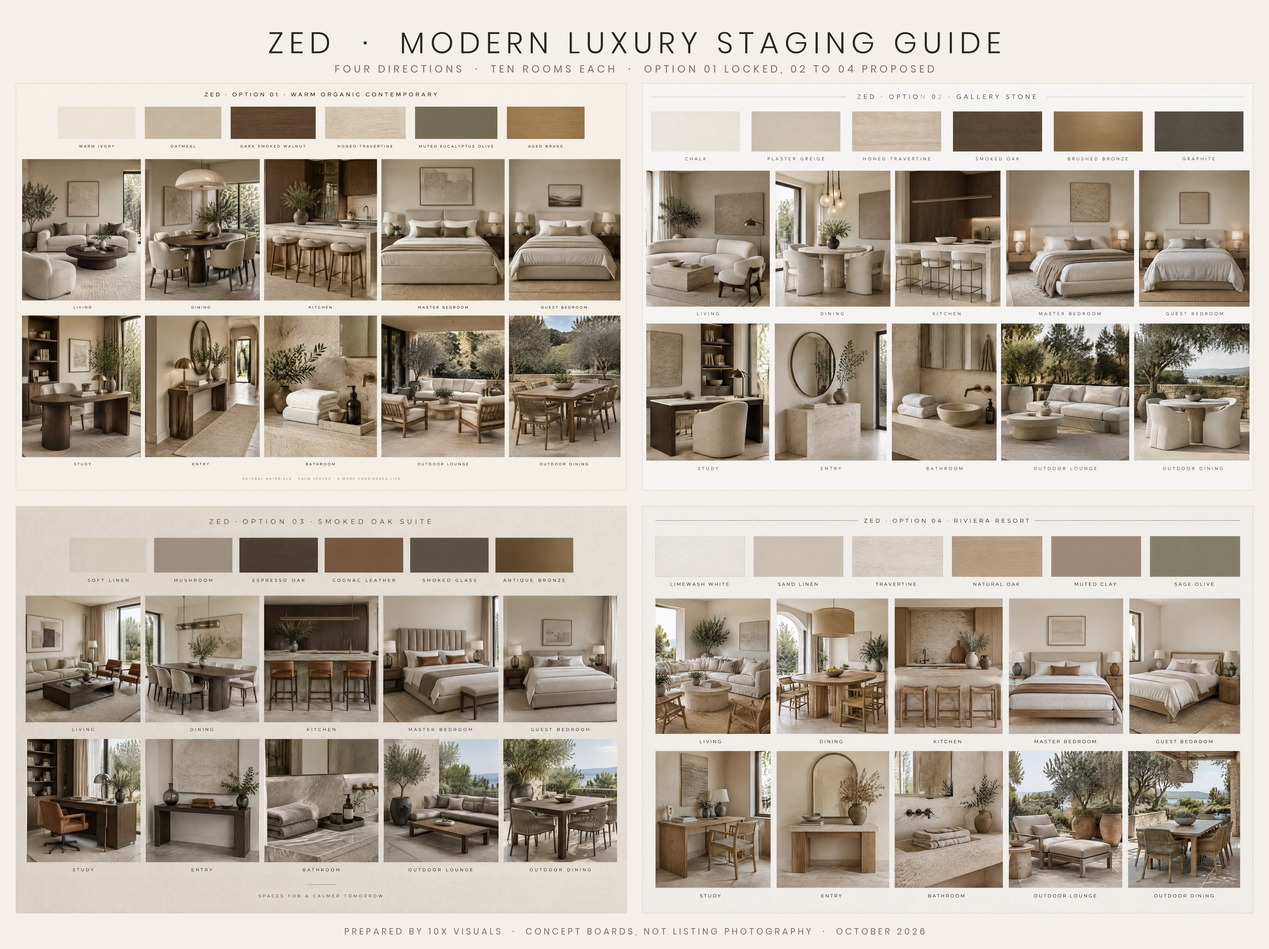
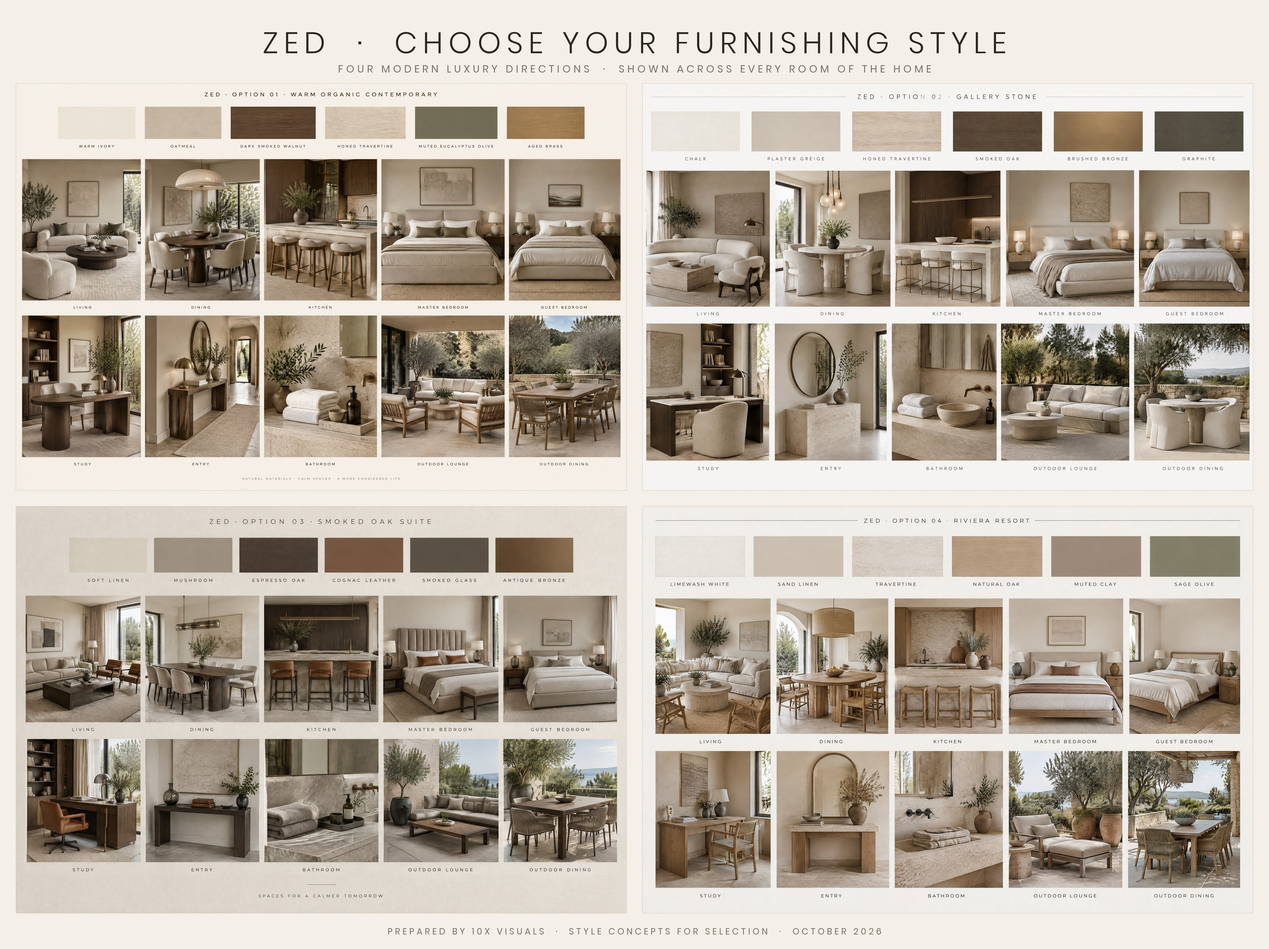
ZED style guide: client-facing master sheet wording

diff --git a/projects/zed-style-guide/JOB.md b/projects/zed-style-guide/JOB.md
@@ -18,6 +18,10 @@ cost: { credits: 720, aud: 0 }
 | 4 | Option 04 Riviera Resort board | same | review | 180cr. Dining table round-ish not oval trestle; outdoor lounge is chair + ottoman, no sofa |
 | 5 | Master sheet (2×2 of the four boards) | local PIL composite | review | free; zed-master-style-guide.png (6384×4776) + -web.jpg |
 
+## Purpose
+
+Client-facing: goes to Zed so he can **pick one style** for a furnished home. Not an internal staging doc. Final deliverable drops prompts, credit costs, confidence scores, staging rules and locked/proposed wording.
+
 ## Log
 
 - 2026-10-09 intake: HTML style guide (Options 01–04) published as artifact
@@ -26,3 +30,4 @@ cost: { credits: 720, aud: 0 }
 
 ---
 _Vault: [[jarvis]]_
+- 2026-10-09 Hunter: deliverable is for Zed to pick a style → master sheet header reworded client-facing ("Choose your furnishing style"); deep research running to deepen room kits before rebuild
